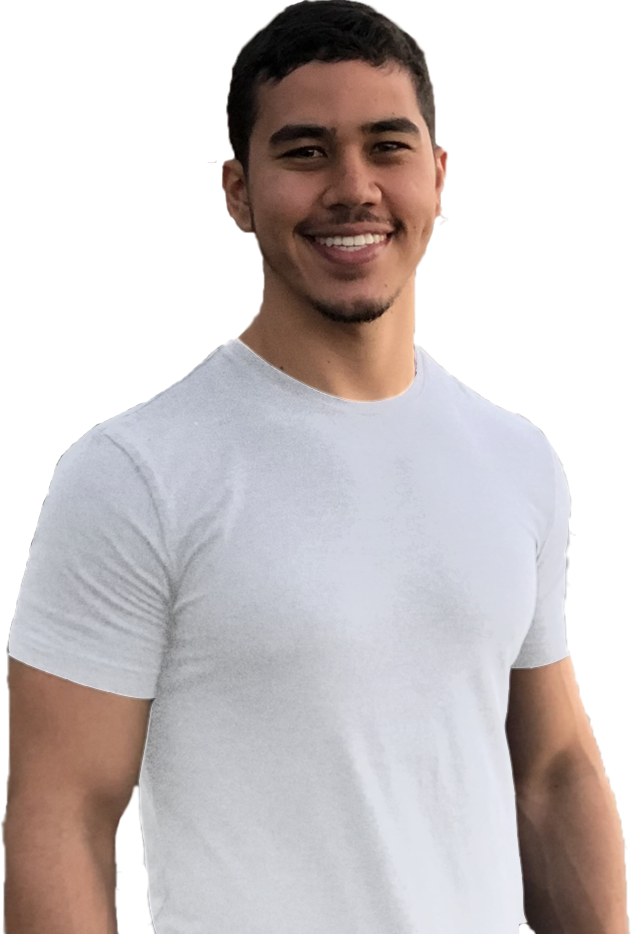
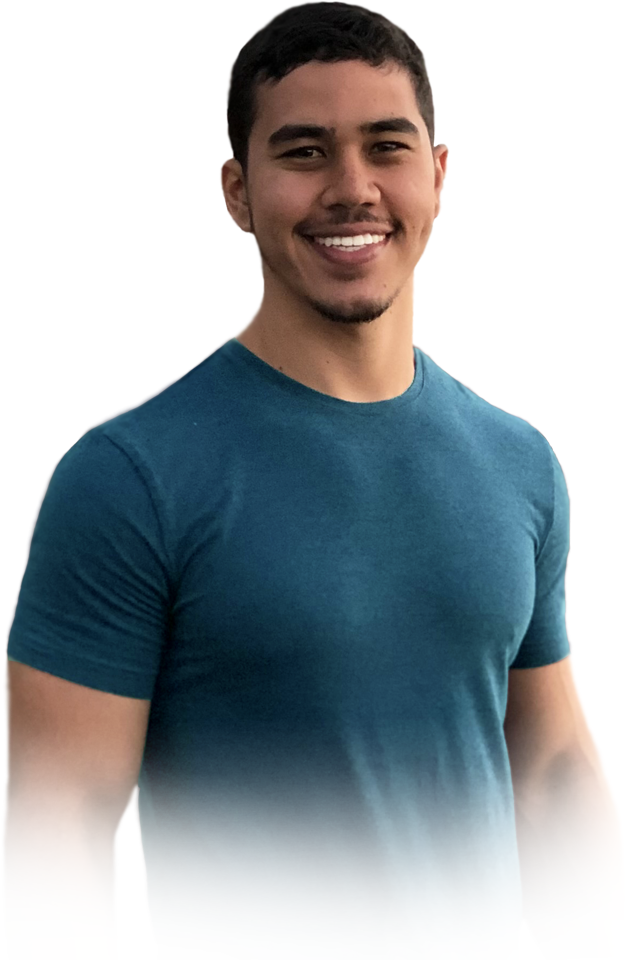
alteracao da foto de perfil versao light

diff --git a/src/components/Home/index.tsx b/src/components/Home/index.tsx
@@ -12,7 +12,7 @@ export const Home = () => {
         <section className="transition-all container-personalizado pt-32 md:pt-20  w-full h-full">
             <div className="block md:grid grid-flow-col md:gap-10 items-center justify-stretch">
 
-            <div className="min-w-[250px] max-w-[420px] h-[420px] md:max-w-[600px] -mt-12 m-auto md:mt-0 flex md:grid justify-center md:after:hidden after:content-[''] after:block after:absolute after:bottom-0 relative dark:after:h-32 after:h-40 after:w-full dark:after:bg-linear-gray-3 after:bg-linear-light after:z-[1] md:h-full md:w-[400px]">
+            <div className="min-w-[250px] max-w-[420px] h-[420px] md:max-w-[600px] -mt-12 m-auto md:mt-0 flex md:grid justify-center md:after:hidden after:content-[''] after:block after:absolute after:bottom-0 relative dark:after:h-32 after:h-60 after:w-full dark:after:bg-linear-gray-3 after:bg-linear-light after:z-[1] md:h-full md:w-[400px]">
             <Image data-aos="flip-left" priority width={460} height={460} src={FotoPerfil.src} className="hidden dark:block order-1  inset-0 object-cover object-top w-full h-full" alt="Foto de Perfil" />
             <Image data-aos="flip-left" priority width={460} height={460} src={FotoPerfil2.src} className="block dark:hidden order-1  inset-0 object-cover object-top w-full h-full" alt="Foto de Perfil" />
 

diff --git a/src/components/About/index.tsx b/src/components/About/index.tsx
@@ -21,7 +21,7 @@ export const About = () => {
                 <br />
 
                 <p className="text-base md:text-lg text-justify">
-                    Atualmente, atuo como Desenvolvedor Jr. na Stefanini, mas minha trajetória inclui 10 anos de experiência como técnico de informática na Dires e um estágio de 6 meses como suporte técnico na empresa Vtrina. Essas experiências têm sido fundamentais para meu crescimento e aprendizado constante.
+                    Atualmente, atuo como Desenvolvedor Jr. na Stefanini, mas minha trajetória inclui 10 anos de experiência como técnico de informática na Dires e um estágio de 6 meses como suporte técnico na empresa Vtrina. Essas experiências têm sido fundamentais para meu crescimento profissional e um aprendizado constante.
                 </p>
                 <br />
 

diff --git a/tailwind.config.ts b/tailwind.config.ts
@@ -18,7 +18,7 @@ const config: Config = {
         "linear-gray": "linear-gradient(180deg,#121212,#1a1a1a, #121212)",
         "linear-gray-2": "linear-gradient(0deg,#121212,#262626)",
         "linear-gray-3": "linear-gradient(180deg, rgba(18, 18, 18, 0) 1%, #121212 37%)",
-        "linear-light": "linear-gradient(180deg, hsla(0, 0%, 100%, 0) 1%, #fff 60%)",
+        "linear-light": "linear-gradient(180deg, hsla(0, 0%, 100%, 2%) 35%, #fff 70%)",
         'linear-button-light': "linear-gradient(90deg, #009bff, #0062ff)",
         "linear-footer": "linear-gradient(180deg, #ffffff, #c5d9f9)"
     },
